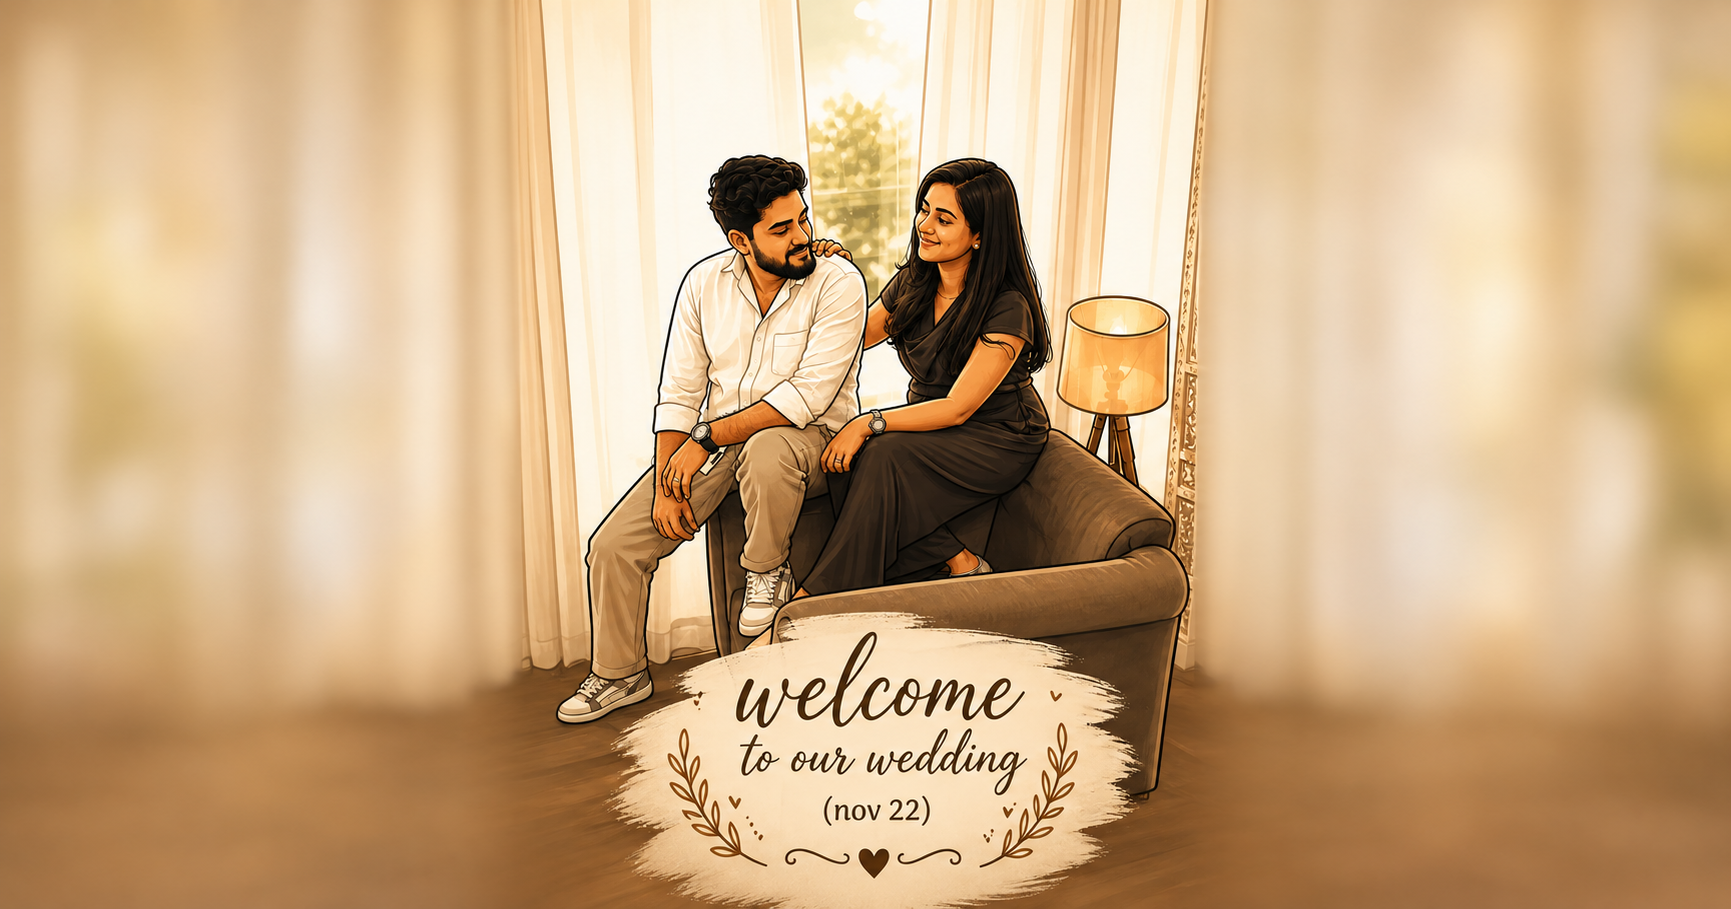
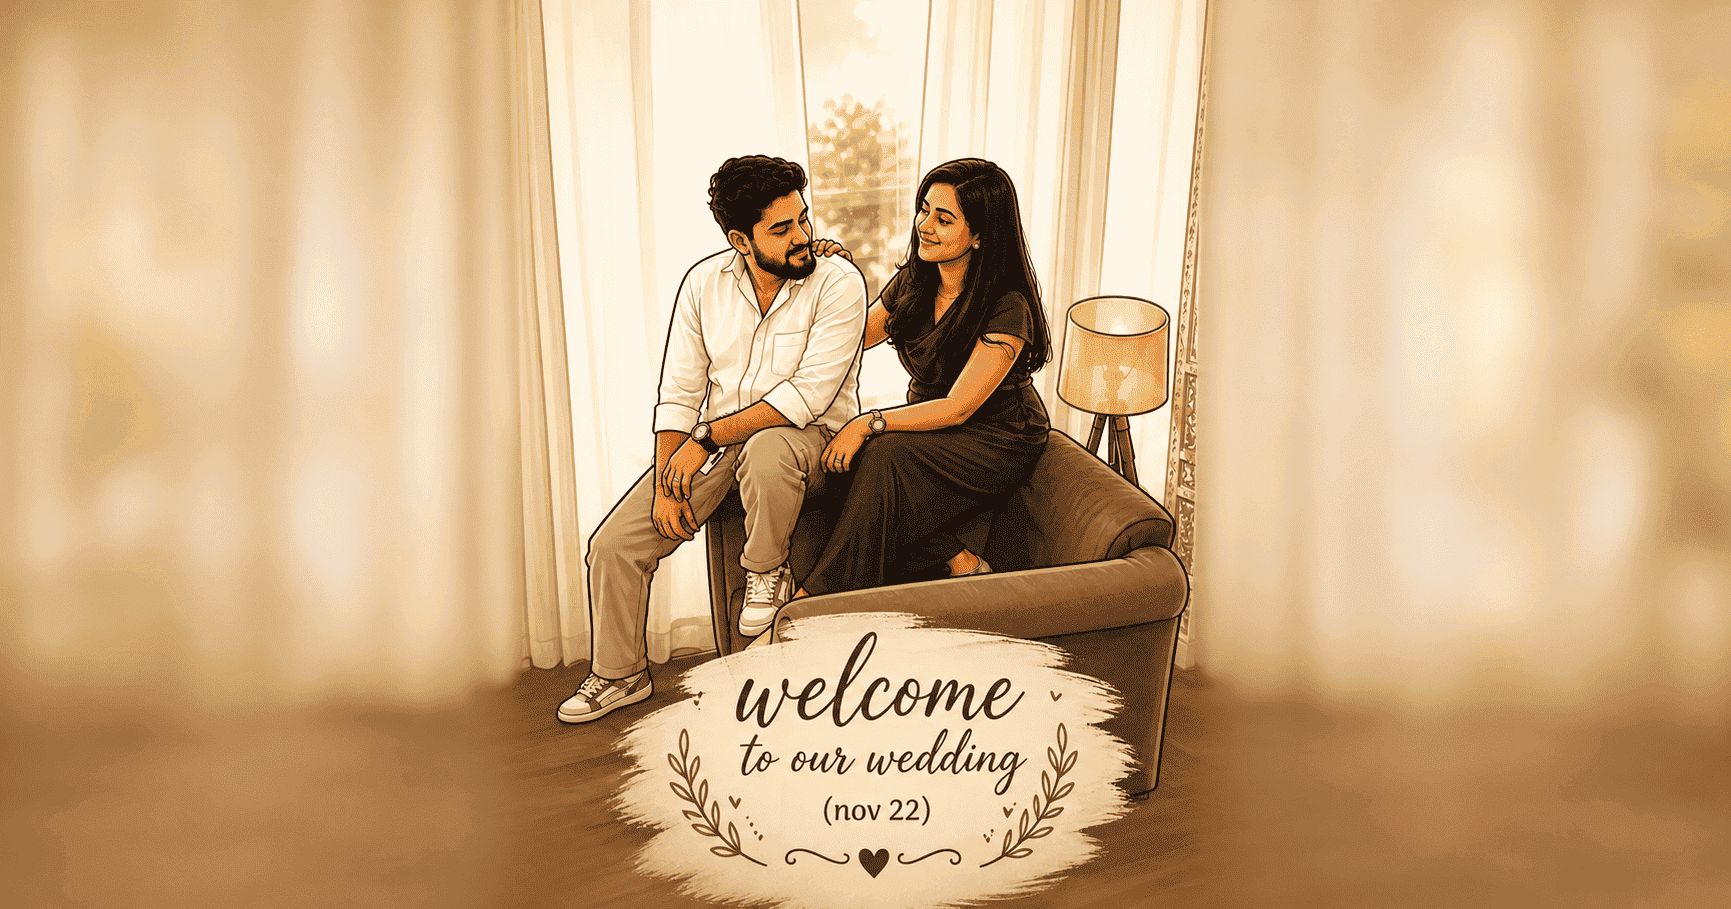
upadate

diff --git a/index.html b/index.html
@@ -7,8 +7,9 @@
   <meta http-equiv="X-UA-Compatible" content="ie=edge">
 
   <!-- SEO & Primary Meta Tags -->
-  <title>Subin & Sajitha — Wedding Invitation | 22 November 2026</title>
-  <meta name="title" content="Subin & Sajitha — Wedding Invitation | 22 November 2026">
+  <title><b>Digital Invitation of Subin weds Sajitha ❤
+     22 Nov 2026</b></title>
+  <meta name="title" content="Digital Invitation of Subin weds Sajitha | 22 November 2026">
   <meta name="description"
     content="We cordially invite you with family and friends to celebrate the wedding of Subin & Sajitha on Sunday, 22 November 2026 at Sree Badra Auditorium, Thrissur and Mangalya Auditorium, Kannambra.">
   <meta name="keywords"
@@ -22,15 +23,15 @@
   <!-- WhatsApp & Social Open Graph Metadata -->
   <meta property="og:type" content="website">
   <meta property="og:url" content="./">
-  <meta property="og:title" content="<b> Digital Invitation💍 Subin weds Sajitha </b> ">
+  <meta property="og:title" content=" Digital Invitation💍 Subin weds Sajitha  ">
   <meta property="og:description" content="Tap to view the invitation!">
-  <meta property="og:image" content="./assets/https://weddinginvitationsubinsajitha.vercel.app/">
-  <meta property="og:image:secure_url" content="./assets/https://weddinginvitationsubinsajitha.vercel.app/">
-  <meta property="og:image:type" content="image/jpeg">
-  <meta property="og:image:width" content="1200">
-  <meta property="og:image:height" content="630">
+  <meta property="og:image" content="./assets/og-preview.png/https://weddinginvitationsubinsajitha.vercel.app/">
+  <meta property="og:image:secure_url" content="./assets/og-preview.png/https://weddinginvitationsubinsajitha.vercel">
+  <meta property="og:image:type" content="image/png">
+  <meta property="og:image:width" content="1731">
+  <meta property="og:image:height" content="909">
   <meta property="og:image:alt" content="Wedding of Subin & Sajitha">
-  <meta property="og:site_name" content="Subin & Sajitha Wedding">
+  <meta property="og:site_name" content="Subin & Sajitha Digital Wedding Invitation ">
   <meta property="og:locale" content="en_IN">
 
   <!-- Twitter Card Metadata -->
